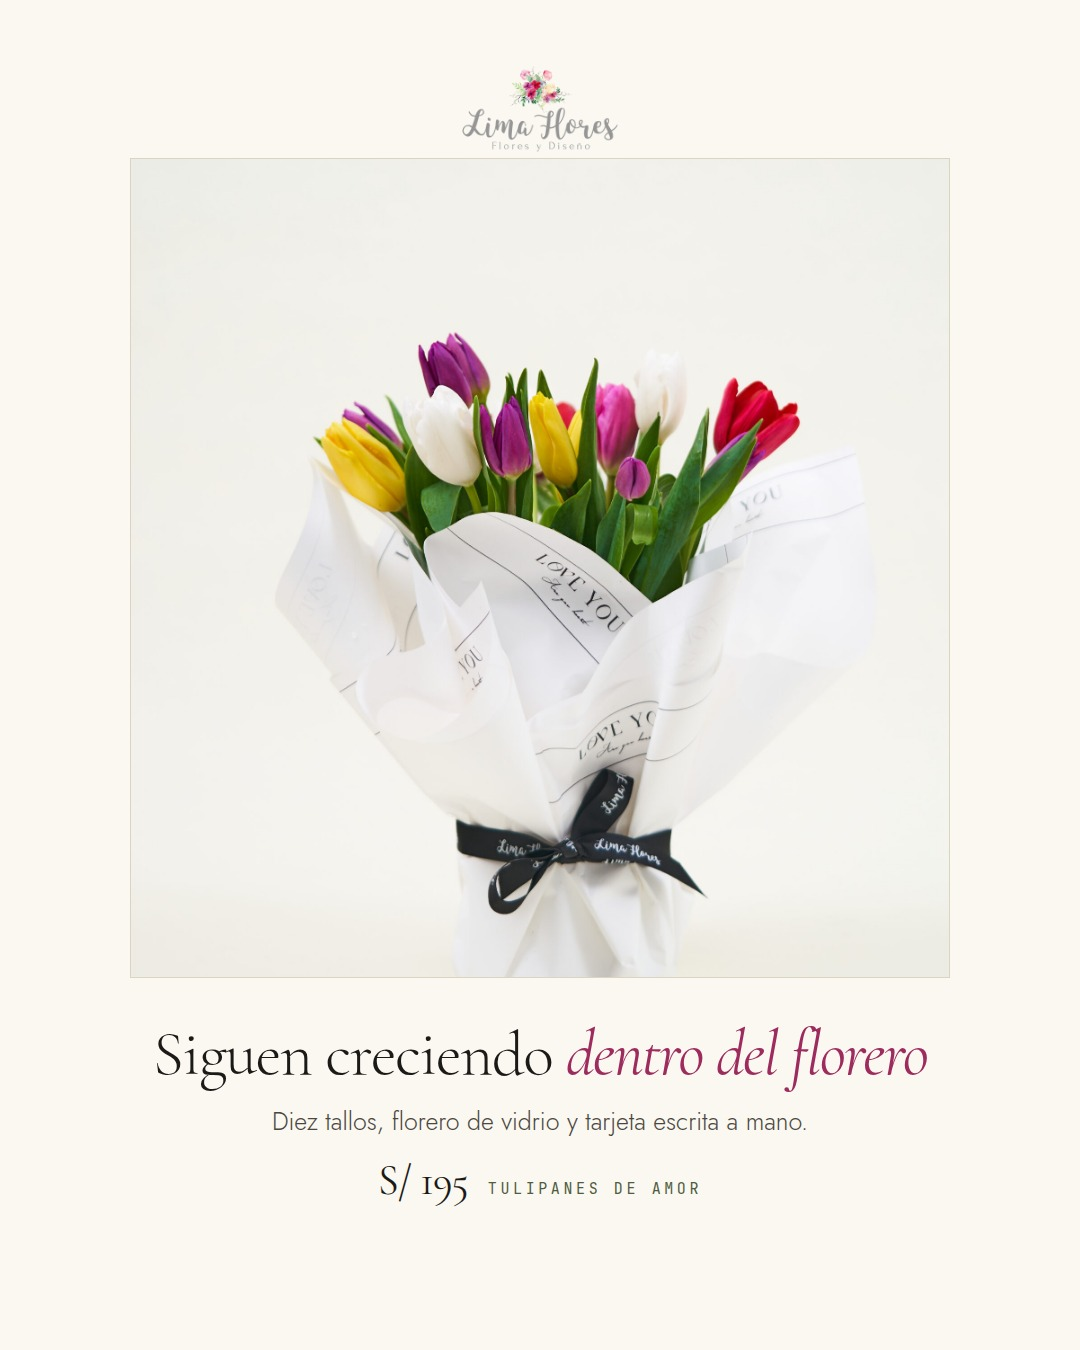
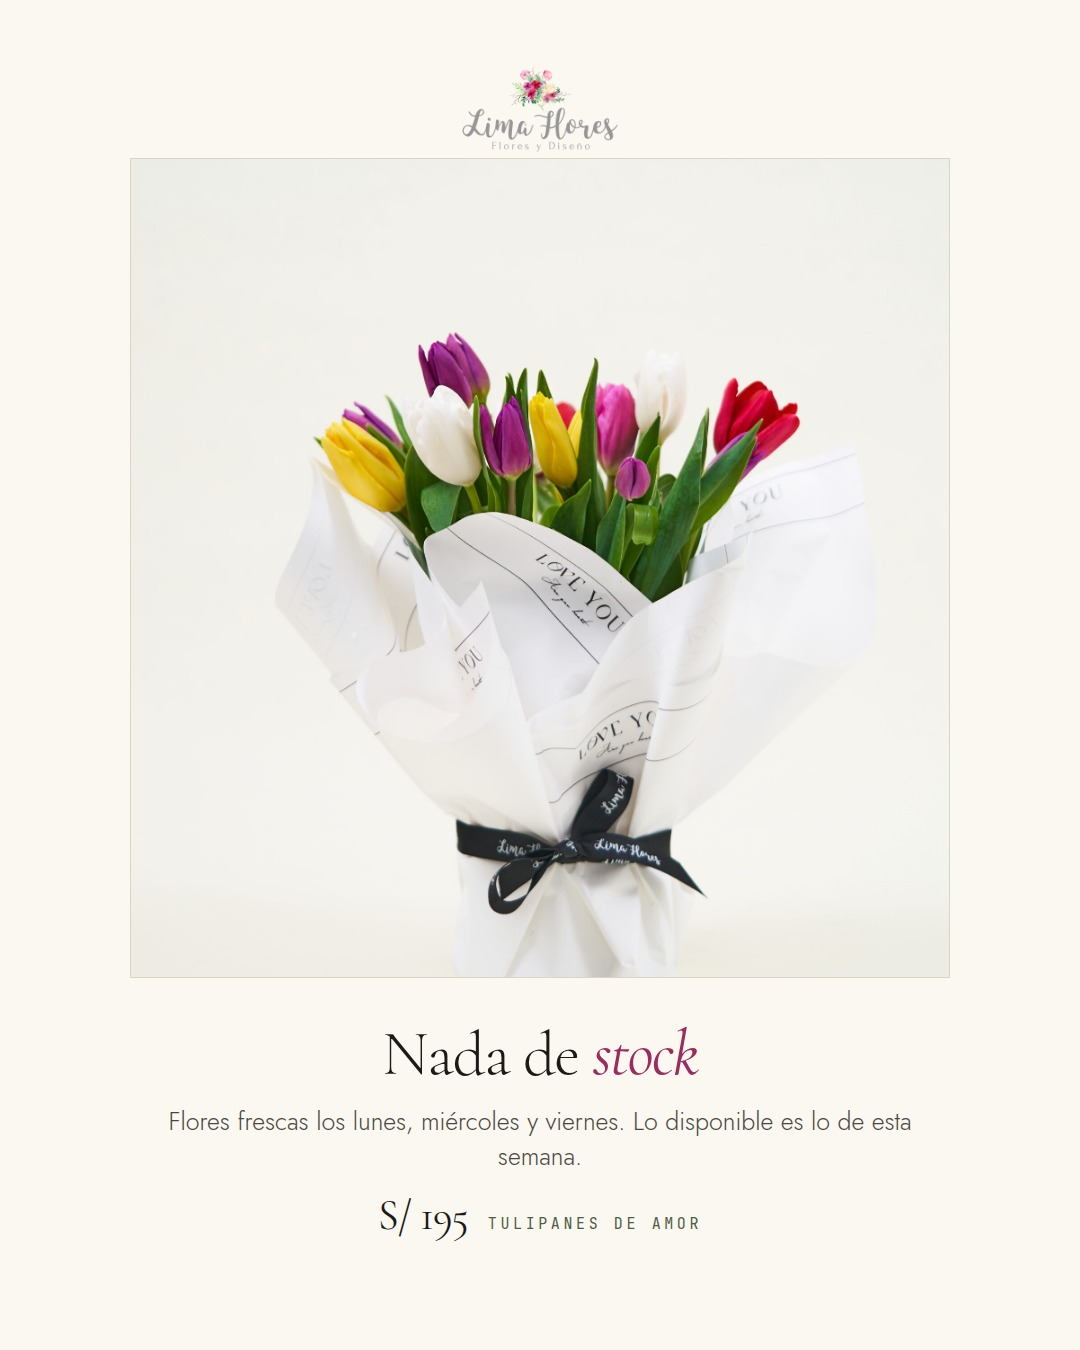
marketing: entrega de un dia para otro y copy trazable a sus fuentes
La promesa de entrega el mismo dia estaba mal. La landing dice "Te las
llevamos hoy", pero site/js/checkout.js exige LEAD_MS = 24 h y deja que
el cliente elija fecha y slot de 30 min entre 8:00 y 20:30: manda el
codigo, no la landing. Seis piezas la prometian; ahora dicen "eliges el
dia y la hora", que ademas es mejor argumento y es cierto.

Fuera tambien lo que no salia de ninguna fuente del proyecto:

- "tarjeta escrita a mano" -> "tarjeta de dedicatoria", que es lo que
  dice el catalogo.
- "los tulipanes siguen creciendo dentro del florero" (IG-14): cierto en
  botanica, pero no es un dato del negocio. La pieza pasa a usar el
  manifiesto de la landing.
- "foto tomada con un celular, sin retoque, en la casa a la que llego"
  (IG-16): no hay como saberlo. El copy ahora solo describe lo que se ve.
- "un ramo dura 8 dias" y "los tulipanes duran una semana": cifras sin
  respaldo.
- La reseña de Diego V. se cita recortada: la parte del pedido entregado
  el mismo dia ya no aplica.

El README y la galeria cambian la lista de "datos por confirmar" por una
tabla de trazabilidad: cada afirmacion con su fuente y su texto de
origen. Queda una sola decision abierta, marcada como tal: el "8 a 12
semanas" de IG-04 esta publicado en la landing pero referido a otro
producto de la misma especie.

Claude-Session: https://claude.ai/code/session_01MdD1qwxT22PiT7gFURWEh4

Changed region(s): [[0.1528, 0.7467, 0.8556, 0.9333], [0.5806, 0.8711, 0.6417, 0.9333]]

diff --git a/marketing/ig-ads/README.md b/marketing/ig-ads/README.md
@@ -11,7 +11,7 @@ node marketing/ig-ads/build.mjs     # regenera los 9 creativos y este README
 | `IG-01` | Florero con tulipanes lilas | Frío | 4:5 | Regálale un martes cualquiera |
 | `IG-02` | Florero con tulipanes lilas | Consideración / Retargeting 14 días | 4:5 | Lo que otros te cobran aparte |
 | `IG-03` | Florero con tulipanes lilas | Retargeting caliente · carrito abandonado 1–3 días | 9:16 | Todavía llegas |
-| `IG-04` | Orquídeas grandes en maceta | Frío | 4:5 | Ocho días o tres meses |
+| `IG-04` | Orquídeas grandes en maceta | Frío | 4:5 | Días, o tres meses |
 | `IG-05` | Orquídeas grandes en maceta | Consideración / Retargeting 30 días | 4:5 | «Siguen vivas dos meses después» |
 | `IG-06` | Orquídeas grandes en maceta | Retargeting caliente | 9:16 | Cuando el ramo no alcanza |
 | `IG-07` | Ramo de flores Sofía | Frío | 4:5 | No mandes rosas rojas |
@@ -21,9 +21,9 @@ node marketing/ig-ads/build.mjs     # regenera los 9 creativos y este README
 | `IG-11` | Arreglo Rossie | Consideración / Retargeting 14 días | 4:5 | Mide 50 cm. Se nota. |
 | `IG-12` | Arreglo Rossie | Retargeting caliente | 9:16 | Cuando «bonito» no alcanza |
 | `IG-13` | Tulipanes de amor | Frío | 4:5 | Tú eliges el color |
-| `IG-14` | Tulipanes de amor | Frío — marca | 4:5 | Las flores que siguen creciendo |
-| `IG-15` | Tulipanes de amor | Retargeting caliente | 9:16 | Elige el color, lo llevamos hoy |
-| `IG-16` | Ramo Luana | Frío | 1:1 | Sin estudio, sin retoque |
+| `IG-14` | Tulipanes de amor | Frío — marca | 4:5 | Nada de stock |
+| `IG-15` | Tulipanes de amor | Retargeting caliente | 9:16 | Elige el color y el día |
+| `IG-16` | Ramo Luana | Frío | 1:1 | Para una sala de verdad |
 | `IG-17` | Ramo Luana | Frío | 4:5 | Para la amiga que se mudó |
 | `IG-18` | Ramo Luana | Retargeting caliente | 9:16 | Los colores que nadie pide |
 
@@ -49,11 +49,11 @@ node marketing/ig-ads/build.mjs     # regenera los 9 creativos y este README
 
 > Los cumpleaños ya están tomados. El aniversario también.
 >
-> Lo que nadie ve venir es un martes a las 4 de la tarde, sin motivo, con diez tulipanes lilas y una tarjeta escrita a mano.
+> Lo que nadie ve venir es un martes a las 4 de la tarde, sin motivo, con diez tulipanes lilas y una tarjeta de dedicatoria.
 >
 > Eso es lo que la gente cuenta después.
 >
-> Florero de vidrio incluido. Entregamos hoy en Lima.
+> Florero de vidrio incluido. Tú eliges el día y la hora de entrega.
 
 **Titular** Regálale un martes cualquiera
 
@@ -75,9 +75,9 @@ node marketing/ig-ads/build.mjs     # regenera los 9 creativos y este README
 
 > S/195 no es el precio de diez tulipanes.
 >
-> Es el florero de vidrio, que no cobramos aparte. El papel armado a mano esa misma mañana. La tarjeta con lo que no te animas a decir en voz alta. Y alguien manejando hasta su puerta hoy.
+> Es el florero de vidrio, que no cobramos aparte. El papel armado a mano. La tarjeta con lo que no te animas a decir en voz alta. Y alguien manejando hasta su puerta el día y la hora que elijas.
 >
-> Los tulipanes duran una semana. El florero se queda para siempre.
+> Las flores se van. El florero se queda.
 
 **Titular** Lo que otros te cobran aparte
 
@@ -97,17 +97,17 @@ node marketing/ig-ads/build.mjs     # regenera los 9 creativos y este README
 
 **Texto principal**
 
-> Te olvidaste. Está bien: todavía estás a tiempo.
+> Te olvidaste. Está bien: si lo pides hoy, llega mañana.
 >
-> Tulipanes lilas con florero incluido, entregados hoy en Lima. Desliza hacia arriba y elige la hora.
+> Tulipanes lilas con florero de vidrio incluido. Eliges el día y la hora de entrega en Lima Metropolitana.
 
 **Titular** Todavía llegas
 
-**Descripción** S/195 · entrega el mismo día
+**Descripción** S/195 · pídelo hoy, llega mañana
 
-**Hashtags** #limaflores #deliverylima #floreshoy
+**Hashtags** #limaflores #deliverylima #floresadomicilio
 
-**Por qué funciona** Urgencia sin descuento. El descuento entrena a esperar ofertas; la hora de entrega no toca el margen.
+**Por qué funciona** Urgencia sin descuento. El descuento entrena a esperar ofertas; recordar que el pedido de hoy llega mañana no toca el margen.
 
 ---
 
@@ -129,13 +129,13 @@ node marketing/ig-ads/build.mjs     # regenera los 9 creativos y este README
 
 **Texto principal**
 
-> Un ramo dura ocho días. Una Phalaenopsis dura entre ocho y doce semanas con un vaso de agua a la semana.
+> Un ramo se marchita en días. Una Phalaenopsis aguanta entre ocho y doce semanas con riego mínimo.
 >
-> Misma inversión, diez veces más tiempo recordándote.
+> Misma inversión, mucho más tiempo recordándote.
 >
 > Viene en maceta decorativa, con tarjeta de dedicatoria e instrucciones de cuidado para que no se muera en la oficina.
 
-**Titular** Ocho días o tres meses
+**Titular** Días, o tres meses
 
 **Descripción** Phalaenopsis en maceta · S/200
 
@@ -153,13 +153,13 @@ node marketing/ig-ads/build.mjs     # regenera los 9 creativos y este README
 
 **Texto principal**
 
-> «Pedí a las 11 am, llegaron a las 5:30 pm con el arreglo perfecto. Las orquídeas siguen vivas dos meses después. Recomiendo cerrado los ojos.»
+> «Las orquídeas siguen vivas dos meses después. Recomiendo cerrado los ojos.»
 >
 > — Diego V., San Isidro · reseña verificada
 >
 > Eso es exactamente lo que vendemos: algo que sigue vivo cuando ya nadie se acuerda del regalo.
 >
-> Phalaenopsis en maceta decorativa, con tarjeta e instrucciones.
+> Phalaenopsis en maceta decorativa, con tarjeta e instrucciones de cuidado.
 
 **Titular** «Siguen vivas dos meses después»
 
@@ -167,7 +167,7 @@ node marketing/ig-ads/build.mjs     # regenera los 9 creativos y este README
 
 **Hashtags** #limaflores #orquideas #reseñasreales #deliverylima
 
-**Por qué funciona** Prueba social textual del propio sitio. Cubre las dos objeciones a la vez: llega a tiempo y dura.
+**Por qué funciona** Prueba social textual del propio sitio. Cubre la objeción que de verdad frena la compra de una planta como regalo: que se muera a la semana.
 
 ### IG-06 · Cuando el ramo no alcanza
 
@@ -181,11 +181,11 @@ node marketing/ig-ads/build.mjs     # regenera los 9 creativos y este README
 
 > Para la suegra. Para la jefa. Para la casa nueva. Para el gracias que se te quedó pendiente hace tres semanas.
 >
-> Orquídea Phalaenopsis en maceta, entregada hoy en Lima.
+> Orquídea Phalaenopsis en maceta, entregada el día y la hora que elijas.
 
 **Titular** Cuando el ramo no alcanza
 
-**Descripción** S/200 · entrega el mismo día
+**Descripción** S/200 · eliges día y hora
 
 **Hashtags** #limaflores #orquideas #regalosperu
 
@@ -195,7 +195,7 @@ node marketing/ig-ads/build.mjs     # regenera los 9 creativos y este README
 
 ## 03 · Ramo de flores Sofía — S/160
 
-**Categoría** Ramos · **Ángulo** Anti–rosas rojas: criterio estético a precio de entrada, hecho a mano el mismo día.
+**Categoría** Ramos · **Ángulo** Anti–rosas rojas: criterio estético a precio de entrada, armado a mano.
 
 **Público** 22–40, Lima Metropolitana. Público de entrada de precio y gusto estético: diseño, arquitectura, café de especialidad, decoración. Primer contacto con la marca.
 
@@ -263,11 +263,11 @@ node marketing/ig-ads/build.mjs     # regenera los 9 creativos y este README
 
 > Gracias. Perdón. Felicitaciones. Te extraño.
 >
-> Cuatro cosas difíciles de decir y una sola manera de decirlas bien. Ramo Sofía, hecho a mano, entregado hoy en Lima.
+> Cuatro cosas difíciles de decir y una sola manera de decirlas bien. Ramo Sofía, hecho a mano, entregado el día que elijas.
 
 **Titular** Difícil de decir. Fácil de mandar.
 
-**Descripción** Desde S/160 · entrega hoy
+**Descripción** Desde S/160 · eliges día y hora
 
 **Hashtags** #limaflores #floreslima #deliverylima
 
@@ -297,7 +297,7 @@ node marketing/ig-ads/build.mjs     # regenera los 9 creativos y este README
 >
 > Rosas, gerberas, claveles importados y pepitas rojas apretadas hasta que no entra una flor más, en florero de vidrio.
 >
-> Mide 50 cm de alto y ocupa la mesa entera. S/245, entregado hoy en Lima.
+> Mide 50 cm de alto y ocupa la mesa entera. S/245, el día y la hora que elijas.
 
 **Titular** Rojo de verdad
 
@@ -321,7 +321,7 @@ node marketing/ig-ads/build.mjs     # regenera los 9 creativos y este README
 >
 > No es el detalle que se pone al costado del plato: es lo primero que ve cuando entra a la casa.
 >
-> Rosas, gerberas y claveles importados en florero de vidrio, armado a mano el mismo día. S/245.
+> Rosas, gerberas y claveles importados en florero de vidrio, armado a mano. S/245.
 
 **Titular** Mide 50 cm. Se nota.
 
@@ -345,7 +345,7 @@ node marketing/ig-ads/build.mjs     # regenera los 9 creativos y este README
 >
 > Hay momentos en los que un ramo correcto no dice lo suficiente. Para eso está el Rossie: rojo cerrado, 50 cm, florero de vidrio incluido.
 >
-> S/245, hoy en Lima.
+> S/245, en Lima Metropolitana.
 
 **Titular** Cuando «bonito» no alcanza
 
@@ -377,7 +377,7 @@ node marketing/ig-ads/build.mjs     # regenera los 9 creativos y este README
 
 > Diez tulipanes en florero de vidrio. Tú eliges: amarillo, rojo, morado, naranja, blanco, o el mix de todos como en la foto.
 >
-> Viene con papel decorativo y tarjeta de dedicatoria. S/195, entregado hoy en Lima.
+> Viene con papel decorativo y tarjeta de dedicatoria. S/195, el día y la hora que elijas.
 
 **Titular** Tú eliges el color
 
@@ -387,9 +387,9 @@ node marketing/ig-ads/build.mjs     # regenera los 9 creativos y este README
 
 **Por qué funciona** La foto ya tiene el aire arriba: el texto se apoya en el fondo crema sin recuadros ni velos. Es el formato más limpio del set y el que mejor pasa por publicación orgánica.
 
-### IG-14 · Las flores que siguen creciendo
+### IG-14 · Nada de stock
 
-![Las flores que siguen creciendo](creativos/IG-14.jpg)
+![Nada de stock](creativos/IG-14.jpg)
 
 - **Objetivo** Tráfico / Interacción · **Etapa** Frío — marca
 - **Ubicación** Feed de Instagram · 4:5 (1080×1350)
@@ -397,17 +397,19 @@ node marketing/ig-ads/build.mjs     # regenera los 9 creativos y este README
 
 **Texto principal**
 
-> Los tulipanes son de las pocas flores que siguen creciendo después de cortadas. Se estiran, se acomodan y cambian de posición cada día dentro del florero.
+> No tenemos stock. Recibimos flores frescas los lunes, miércoles y viernes, y lo que está disponible es lo que llegó esa semana.
 >
-> Es un regalo que se mueve durante toda la semana. Diez tallos, florero de vidrio y tarjeta de dedicatoria, S/195.
+> Si algo se acaba, te avisamos en menos de una hora.
+>
+> Diez tulipanes en florero de vidrio, con papel decorativo y tarjeta de dedicatoria. S/195.
 
-**Titular** Las flores que siguen creciendo
+**Titular** Nada de stock
 
-**Descripción** Tulipanes de amor · S/195
+**Descripción** Tulipanes de amor · florero incluido · S/195
 
-**Hashtags** #limaflores #tulipanes #datofloral #floreslima
+**Hashtags** #limaflores #tulipanes #atelierfloral #floreslima
 
-**Por qué funciona** Un dato verdadero que casi nadie sabe da motivo para guardar y comentar el anuncio. Baja el CPM del conjunto entero por interacción.
+**Por qué funciona** Es el manifiesto de la propia landing, sin cambiarle una palabra. Explica por qué el catálogo cambia y convierte esa limitación en argumento.
 
 ### IG-15 · Elige el color, llega hoy
 
@@ -421,11 +423,11 @@ node marketing/ig-ads/build.mjs     # regenera los 9 creativos y este README
 
 > Amarillo, rojo, morado, naranja o blanco.
 >
-> Diez tulipanes en florero de vidrio, entregados hoy en Lima. Desliza y elige el tuyo.
+> Diez tulipanes en florero de vidrio. Eliges el color, el día y la hora. Desliza y arma el tuyo.
 
-**Titular** Elige el color, lo llevamos hoy
+**Titular** Elige el color y el día
 
-**Descripción** S/195 · entrega el mismo día
+**Descripción** S/195 · eliges día y hora
 
 **Hashtags** #limaflores #tulipanes #deliverylima
 
@@ -435,15 +437,15 @@ node marketing/ig-ads/build.mjs     # regenera los 9 creativos y este README
 
 ## 06 · Ramo Luana — S/180
 
-**Categoría** Ramos · **Ángulo** La foto es de casa, no de estudio: se vende autenticidad frente al catálogo pulido.
+**Categoría** Ramos · **Ángulo** La foto está tomada en una sala y no en un fondo blanco: se vende cercanía.
 
 **Público** 22–40, Lima Metropolitana. Primera compra, regalo casual entre amigas, mudanzas y agradecimientos. Público frío amplio.
 
 **Destino** `/producto.html?id=ramo-luana`
 
-### IG-16 · Sin estudio, sin retoque
+### IG-16 · Para una sala de verdad
 
-![Sin estudio, sin retoque](creativos/IG-16.jpg)
+![Para una sala de verdad](creativos/IG-16.jpg)
 
 - **Objetivo** Reconocimiento / Tráfico · **Etapa** Frío
 - **Ubicación** Feed de Instagram · 1:1 (1080×1080)
@@ -451,17 +453,17 @@ node marketing/ig-ads/build.mjs     # regenera los 9 creativos y este README
 
 **Texto principal**
 
-> Esta foto no es de estudio. Es el Ramo Luana sobre el sofá de la casa a la que llegó, tomada con un celular y sin retoque.
+> Mini rosas naranjas, siemprevivas moradas, pompones verdes y toques amarillos, con follaje verde.
 >
-> Mini rosas naranjas, siemprevivas moradas y pompones verdes. Así se va a ver en tu sala. S/180, entregado hoy en Lima.
+> Un ramo para una sala de verdad, no para una vitrina. S/180, armado a mano en el atelier de Miraflores.
 
-**Titular** Sin estudio, sin retoque
+**Titular** Para una sala de verdad
 
 **Descripción** Ramo Luana · S/180
 
-**Hashtags** #limaflores #ramosdeflores #floreslima #sinfiltro #miraflores
+**Hashtags** #limaflores #ramosdeflores #floreslima #hechoamano #miraflores
 
-**Por qué funciona** El formato cuadrado y la foto de celular hacen que no parezca anuncio. Es el creativo con más chance de ganar en público frío amplio.
+**Por qué funciona** La foto está tomada en una sala y no en un fondo blanco: en el feed no parece anuncio, que es justo lo que conviene en público frío amplio.
 
 ### IG-17 · Para la amiga que se mudó
 
@@ -499,7 +501,7 @@ node marketing/ig-ads/build.mjs     # regenera los 9 creativos y este README
 
 > Naranjas, morados y verdes en el mismo ramo: los colores que nadie pide y todos miran.
 >
-> Hecho a mano en el atelier de Miraflores, entregado hoy en Lima. S/180.
+> Hecho a mano en el atelier de Miraflores, entregado el día que elijas. S/180.
 
 **Titular** Los colores que nadie pide
 
@@ -511,22 +513,48 @@ node marketing/ig-ads/build.mjs     # regenera los 9 creativos y este README
 
 ---
 
-## Antes de publicar
+## De dónde sale cada dato
 
-Tres datos del copy salen de la landing y conviene confirmarlos con el taller:
+Todo lo que afirma el copy sale de una de estas tres fuentes. Nada es de conocimiento
+general ni supuesto.
 
-1. **«Entrega hoy»** (IG-01, IG-03, IG-06, IG-09). La landing dice «Te las llevamos hoy» y una
-   reseña habla de un pedido a las 11 am entregado a las 5:30 pm, pero no hay hora de corte
-   publicada. Si existe (por ejemplo, pedidos antes de las 2 pm), conviene decirla: sube la
-   conversión y evita reclamos.
-2. **«8 a 12 semanas»** (IG-04). El dato está en la landing referido a las Orquídeas Multicolor.
-   Se está aplicando a las Phalaenopsis en maceta, que es la misma especie, pero vale confirmarlo.
-3. **Color de la orquídea** (IG-04, IG-05, IG-06). Las fotos del catálogo muestran ejemplares
-   ámbar y magenta. Si el color no se puede elegir, la ficha debería decir «color según
-   disponibilidad» para que el creativo no prometa uno en particular.
+| Afirmación | Fuente | Texto de origen |
+| --- | --- | --- |
+| «Eliges el día y la hora» · «Pídelo hoy, llega mañana» | `site/js/checkout.js` | `LEAD_MS = 24h`; el cliente elige fecha y slot de 30 min entre 8:00 y 20:30, con ventana de ±30 min |
+| «Entrega en Lima Metropolitana» | landing | «entrega a domicilio dentro de Lima Metropolitana» |
+| «Flores frescas los lunes, miércoles y viernes» | landing | «recibe flores frescas los lunes, miércoles y viernes» |
+| «Si algo se acaba, te avisamos en menos de una hora» | landing | textual |
+| «No vendemos flores. Vendemos pequeños momentos de calma» | landing | textual (manifiesto) |
+| «Armado a mano» · «Atelier de Miraflores desde 2017» | landing | «Cada arreglo lo armamos nosotros, a mano» · «Atelier desde 2017» |
+| Reseña de Diego V. (IG-05) | landing · reseñas verificadas 2025 | textual, recortada — ver abajo |
+| Florero de vidrio, tarjeta, colores, 30×50 cm, composición floral | `db/products.seed.json` | descripción de cada producto |
+| «8 a 12 semanas» (IG-04) | landing, **pero de otro producto** | «Duran entre ocho y doce semanas con riego mínimo», dicho de las Orquídeas Multicolor |
 
-Además: la reseña de Diego V. que se cita en IG-05 aparece como verificada en la landing.
-Meta pide poder respaldar los testimonios, así que hay que tener a mano de dónde salió.
+### Lo único que queda por decidir
+
+El **«8 a 12 semanas»** de IG-04. La cifra está publicada en la landing, pero referida a las
+Orquídeas Multicolor, no a las Orquídeas grandes en maceta que anuncia esa pieza. Es la misma
+especie (Phalaenopsis) y por eso se dejó, pero es una extrapolación, no un dato del producto.
+Si el taller no la respalda, la comparación funciona igual diciendo «semanas, no días».
+
+### Qué se quitó y por qué
+
+- **Entrega el mismo día.** Estaba en seis piezas. La landing dice «Te las llevamos hoy», pero
+  el checkout exige 24 horas de anticipación: manda el código, no la landing. Reemplazado por
+  «eliges el día y la hora», que además es un argumento más fuerte y es verdad.
+- **«Tarjeta escrita a mano».** El catálogo dice «tarjeta de dedicatoria». Lo de escrita a mano
+  lo había agregado yo.
+- **«Los tulipanes siguen creciendo dentro del florero».** Era el gancho de IG-14 y no salía de
+  ninguna fuente del proyecto: es cierto en botánica, pero no es un dato del negocio. La pieza
+  ahora usa el manifiesto de la landing.
+- **«Foto tomada con un celular, sin retoque, en la casa a la que llegó»** (IG-16). Yo no sé
+  cómo se tomó esa foto. El copy ahora solo describe lo que se ve: un ramo en una sala.
+- **«Un ramo dura 8 días»** (IG-04) y **«los tulipanes duran una semana»** (IG-02). Cifras mías.
+- **La mitad de la reseña de Diego V.** («Pedí a las 11 am, llegaron a las 5:30 pm»). Es textual
+  del sitio, pero promete entrega el mismo día. Se cita solo la parte de la duración.
+
+Meta pide poder respaldar los testimonios: conviene tener a mano de dónde salió la reseña de
+Diego V. antes de publicar IG-05.
 
 ## Los nueve formatos
 
